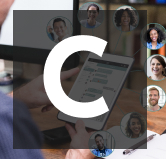
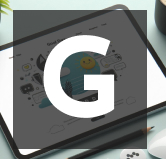
Chnage wording and image

diff --git a/src/app/layouts/auth-layout/pages/sign-up/sign-up.component.ts b/src/app/layouts/auth-layout/pages/sign-up/sign-up.component.ts
@@ -84,23 +84,23 @@ export class SignUpComponent implements OnInit, AfterViewInit {
     //       this.onZipChange(val);
     //     }
     //   });
-    this.loadCloudFlareWidget();
+    // this.loadCloudFlareWidget();
   }
-  loadCloudFlareWidget() {
-    turnstile?.render(this.captchaElement.nativeElement, {
-      sitekey: environment.siteKey,
-      theme: this.theme === 'dark' ? 'light' : 'dark',
-      callback: function (token) {
-        localStorage.setItem('captcha-token', token);
-        this.captchaToken = token;
-        console.log(`Challenge Success ${token}`);
-        if (!token) {
-          this.msg = 'invalid captcha kindly try again!';
-          this.type = 'danger';
-        }
-      },
-    });
-  }
+  // loadCloudFlareWidget() {
+  //   turnstile?.render(this.captchaElement.nativeElement, {
+  //     sitekey: environment.siteKey,
+  //     theme: this.theme === 'dark' ? 'light' : 'dark',
+  //     callback: function (token) {
+  //       localStorage.setItem('captcha-token', token);
+  //       this.captchaToken = token;
+  //       console.log(`Challenge Success ${token}`);
+  //       if (!token) {
+  //         this.msg = 'invalid captcha kindly try again!';
+  //         this.type = 'danger';
+  //       }
+  //     },
+  //   });
+  // }
 
   selectFiles(event) {
     this.profileImg = event;
@@ -134,14 +134,14 @@ export class SignUpComponent implements OnInit, AfterViewInit {
 
   save() {
     this.spinner.show();
-    const token = localStorage.getItem('captcha-token');
-    if (!token) {
-      this.spinner.hide();
-      this.msg = 'Invalid captcha kindly try again!';
-      this.type = 'danger';
-      this.scrollTop();
-      return;
-    }
+    // const token = localStorage.getItem('captcha-token');
+    // if (!token) {
+    //   this.spinner.hide();
+    //   this.msg = 'Invalid captcha kindly try again!';
+    //   this.type = 'danger';
+    //   this.scrollTop();
+    //   return;
+    // }
     this.customerService.createCustomer(this.registerForm.value).subscribe({
       next: (data: any) => {
         this.spinner.hide();

diff --git a/src/app/layouts/auth-layout/pages/login/login.component.ts b/src/app/layouts/auth-layout/pages/login/login.component.ts
@@ -77,34 +77,34 @@ export class LoginComponent implements OnInit, AfterViewInit {
   }
 
   ngAfterViewInit(): void {
-    this.loadCloudFlareWidget();
+    // this.loadCloudFlareWidget();
   }
 
-  loadCloudFlareWidget() {
-    turnstile?.render(this.captchaElement.nativeElement, {
-      sitekey: environment.siteKey,
-      theme: this.theme === 'dark' ? 'light' : 'dark',
-      callback: function (token) {
-        localStorage.setItem('captcha-token', token);
-        this.captchaToken = token;
-        console.log(`Challenge Success ${token}`);
-        if (!token) {
-          this.msg = 'invalid captcha kindly try again!';
-          this.type = 'danger';
-        }
-      },
-    });
-  }
+  // loadCloudFlareWidget() {
+  //   turnstile?.render(this.captchaElement.nativeElement, {
+  //     sitekey: environment.siteKey,
+  //     theme: this.theme === 'dark' ? 'light' : 'dark',
+  //     callback: function (token) {
+  //       localStorage.setItem('captcha-token', token);
+  //       this.captchaToken = token;
+  //       console.log(`Challenge Success ${token}`);
+  //       if (!token) {
+  //         this.msg = 'invalid captcha kindly try again!';
+  //         this.type = 'danger';
+  //       }
+  //     },
+  //   });
+  // }
 
   onSubmit(): void {
     this.spinner.show();
-    const token = localStorage.getItem('captcha-token');
-    if (!token) {
-      this.spinner.hide();
-      this.msg = 'Invalid captcha kindly try again!';
-      this.type = 'danger';
-      return;
-    }
+    // const token = localStorage.getItem('captcha-token');
+    // if (!token) {
+    //   this.spinner.hide();
+    //   this.msg = 'Invalid captcha kindly try again!';
+    //   this.type = 'danger';
+    //   return;
+    // }
     this.authService.customerlogin(this.loginForm.value).subscribe({
       next: (data: any) => {
         this.spinner.hide();

diff --git a/src/app/layouts/auth-layout/pages/landing-page/landing-page.component.html b/src/app/layouts/auth-layout/pages/landing-page/landing-page.component.html
@@ -2,7 +2,7 @@
   <nav class="navbar navbar-light bg-white px-6 px-sm-10 auth-btns">
     <div class="d-flex flex-column">
       <img
-        src="/assets/images/landingpage/2040Chat-Logo.jpg"
+        src="/assets/images/landingpage/GoodDayChat-Logo.jpg"
         class="h-60-px pt-2"
         alt=""
       />
@@ -31,7 +31,7 @@
     <div
       class="d-flex flex-column text-center py-5 custom-height justify-content-center"
     >
-      <span class="pb-2 pb-lg-3 text-white text-s"> 2040.chat </span>
+      <span class="pb-2 pb-lg-3 text-white text-s"> GoodDay.chat </span>
       <span class="text-white c-fonts">
         > Enterprise on-premises Secure Live Chat Solution hosted on your server
       </span>
@@ -42,8 +42,7 @@
         and only allow people to enter after approval
       </span>
     </div>
-    <div class="bg-white">
-      <img src="/assets/images/landingpage/2040chat-landing.jpg" alt="" />
+    <div class="bg-white landing-img">
     </div>
     <div class="p-sm-5">
       <ul class="c-footer">
@@ -61,13 +60,12 @@
         <div>
           <li class="footer-head-txt pt-5">Contact us for a free demo:</li>
             <p class="text-danger">
-             - We will reach you back!, email <a href="mailto:demo@2040.chat">{{'demo@2040.chat'}}</a>
+             - We will reach you back!, email <a href="mailto:demo@goodday.chat">{{'demo@goodday.chat'}}</a>
             </p>
         </div>
         <!-- <li class="footer-txt">registration form</li> -->
       </ul>
     </div>
-    
   </div>
 </div>
 <ng-container *ngIf="mobileMenuToggle">

diff --git a/src/app/layouts/auth-layout/pages/sign-up/sign-up.component.html b/src/app/layouts/auth-layout/pages/sign-up/sign-up.component.html
@@ -6,14 +6,14 @@
           <div class="text-center p-3 rounded-3 mb-4 bg-color">
             <p>Create a DEMO account.</p>
             <p class="m-0">
-              Your account will need be approved by the 2040.chat Admin
+              Your account will need be approved by the GoodDay.chat Admin
             </p>
           </div>
           <h3 class="text-center">
             Enterprise on-premises Secure Live Chat Solution hosted on your
             server
           </h3>
-          <img src="/assets/images/landingpage/2040Chat-Logo.jpg" alt="" />
+          <img src="/assets/images/landingpage/GoodDayChat-Logo.jpg" alt="" />
         </div>
       </div>
     </div>
@@ -338,6 +338,6 @@
 <div class="text-center mt-3">
   <p class="text-danger">
     If you are having technical issues, email
-    <a href="mailto:support@2040.chat">{{ "support@2040.chat" }}</a>
+    <a href="mailto:support@goodday.chat">{{ "support@goodday.chat" }}</a>
   </p>
 </div>

diff --git a/src/app/layouts/main-layout/pages/settings/delete-account/delete-account.component.html b/src/app/layouts/main-layout/pages/settings/delete-account/delete-account.component.html
@@ -4,7 +4,7 @@
   <div class="d-flex justify-content-between align-items-center w-100">
     <div class="d-flex flex-column justify-content-start align-items-start" >
       <span class="text-start" >Do you really want to delete your account?</span>
-      <span class="text-start text-danger">If you will delete your account then you will not be able to login at 2040.chat</span>
+      <span class="text-start text-danger">If you will delete your account then you will not be able to login at GoodDay.chat</span>
     </div>
 
     <button class="btn btn-sm btn-outline-danger px-3 py-1 h-auto d-flex gap-2 align-items-center delete-account" (click)="deleteAccount()">

diff --git a/src/app/layouts/auth-layout/pages/login/login.component.html b/src/app/layouts/auth-layout/pages/login/login.component.html
@@ -2,7 +2,7 @@
   <div class="col-12 col-md-8 col-lg-7 col-xl-6 mx-auto d-flex flex-column">
     <div class="d-flex justify-content-center my-20" routerLink="/">
       <img
-        src="/assets/images/landingpage/2040Chat-Logo.jpg"
+        src="/assets/images/landingpage/GoodDayChat-Logo.jpg"
         class="h-100-px rounded"
         alt=""
       />
@@ -97,7 +97,7 @@
   <div class="text-center mt-3">
     <p class="text-danger">
       If you are having technical issues, email
-      <a href="mailto:support@2040.chat">{{ "support@2040.chat" }}</a>
+      <a href="mailto:support@goodday.chat">{{ "support@goodday.chat" }}</a>
     </p>
   </div>
 </div>

diff --git a/src/app/layouts/auth-layout/pages/landing-page/landing-page.component.scss b/src/app/layouts/auth-layout/pages/landing-page/landing-page.component.scss
@@ -15,6 +15,15 @@
       // padding: 0 5px;
     }
   }
+  .landing-img{
+    background-image:url(../../../../../assets/images/landingpage/GoodDaychat-landing.jpg);
+    height: 100vh;
+    background-repeat: no-repeat;
+    background-size: 100% 100%;
+    background-position: center;
+    object-fit: cover;
+  }
+
 
   .custom-height {
     // height: calc(100vh - 300px);

diff --git a/src/app/layouts/main-layout/pages/profile-chats/profile-chats.component.html b/src/app/layouts/main-layout/pages/profile-chats/profile-chats.component.html
@@ -39,7 +39,7 @@
       <h2 class="text-center">Your account is pending approval</h2>
       <p class="text-danger text-center m-0">
         If you are having technical issues, email
-        <a href="mailto:support@2040.chat">{{ "support@2040.chat" }}</a>
+        <a href="mailto:support@goodday.chat">{{ "support@goodday.chat" }}</a>
       </p>
     </div>
   </div>

diff --git a/server.ts b/server.ts
@@ -68,7 +68,7 @@ export function app(): express.Express {
         }
         const params = req.params[0];
         var seo: any = {
-          title: '2040.Chat',
+          title: 'GoodDay.Chat',
           description:
             `> Enterprise on-premises Secure Live Chat Solution hosted on your server
              > Individual or Group Secure Chat

diff --git a/src/app/app.module.ts b/src/app/app.module.ts
@@ -23,7 +23,7 @@ import { AuthInterceptor } from './@shared/intersaptor/auth.interceptor';
     AppRoutingModule,
     HttpClientModule,
     SharedModule,
-    BrowserModule.withServerTransition({ appId: '2040-chat' }),
+    BrowserModule.withServerTransition({ appId: 'good-day-chat' }),
     BrowserAnimationsModule,
     TransferHttpCacheModule,
   ],

diff --git a/src/app/app.component.ts b/src/app/app.component.ts
@@ -30,7 +30,7 @@ import { TokenStorageService } from './@shared/services/token-storage.service';
 export class AppComponent implements OnInit, AfterViewInit, OnDestroy {
   @Output('newRoomCreated') newRoomCreated: EventEmitter<any> =
     new EventEmitter<any>();
-  title = '2040-chat';
+  title = 'good-day-chat';
   showButton = false;
   tab: any;
 

diff --git a/src/environments/environment.dev.ts b/src/environments/environment.dev.ts
@@ -1,5 +1,5 @@
-const url = 'https://api.2040.chat';
-const webUrl = 'https://www.2040.chat/';
+const url = 'https://api.goodday.chat';
+const webUrl = 'https://www.goodday.chat/';
 const tubeUrl = 'https://dev.tube.freedom.buzz/';
 
 // const url = 'http://localhost:8080';
